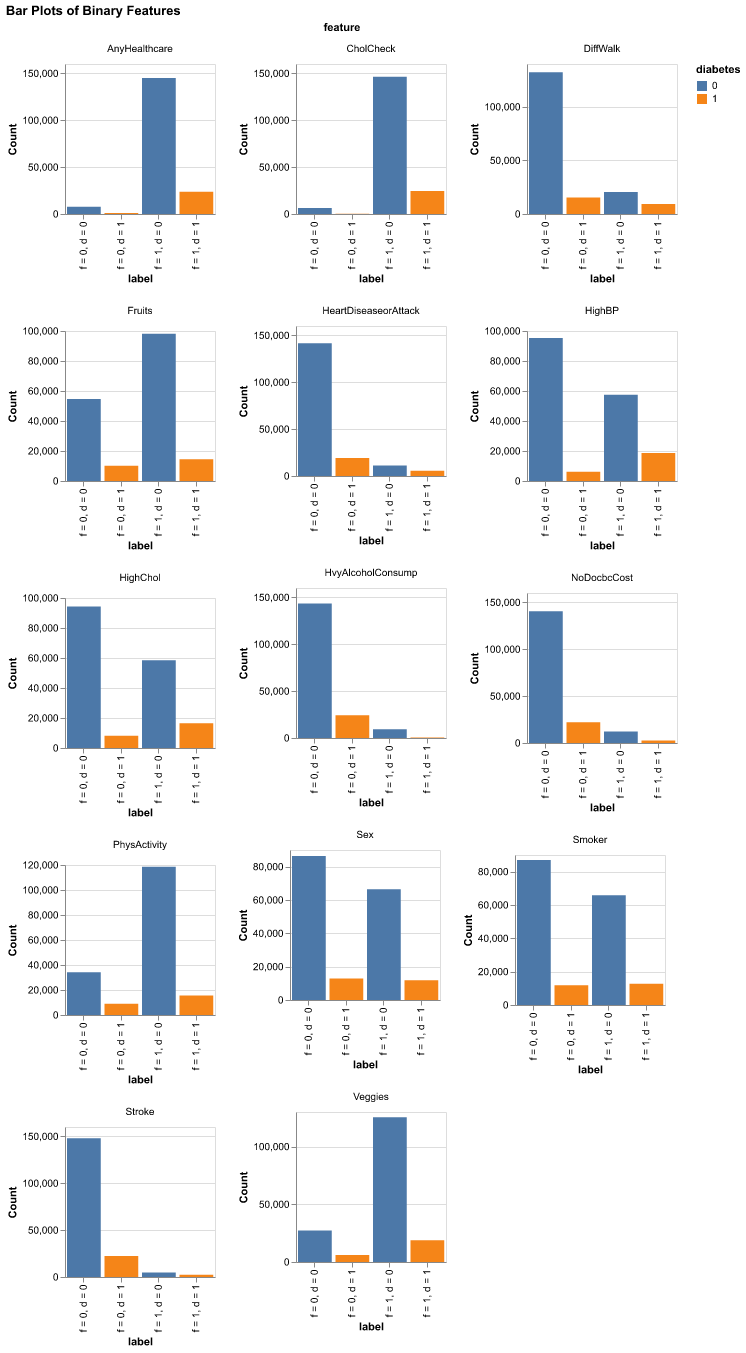
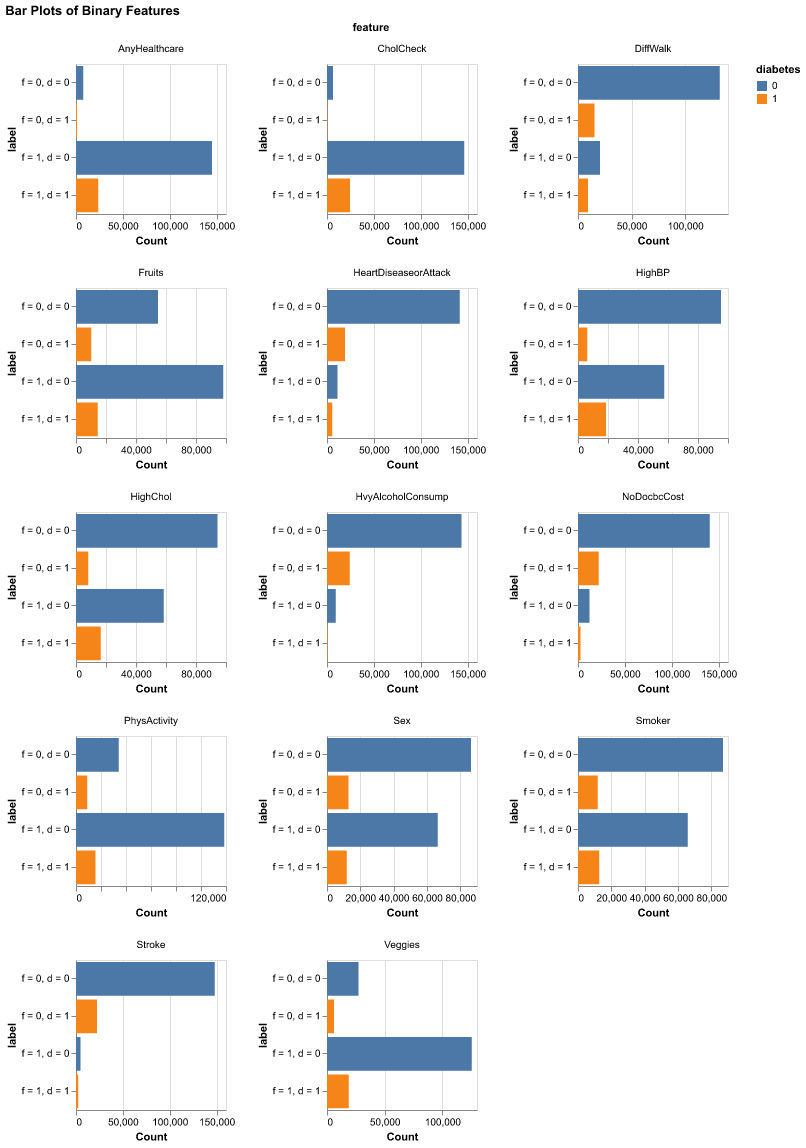
modify plots according to https://github.com/alxwen711/cdc_diabetes_prediction/pull/43#pullrequestreview-3538279190

Changed region(s): [[0.0, 0.0, 0.9249, 1.0], [0.9249, 0.0305, 1.0, 0.0915]]

diff --git a/scripts/04-EDA.py b/scripts/04-EDA.py
@@ -157,8 +157,8 @@ def eda_binary(X_train: pd.DataFrame) -> alt.Chart:
     df_sample_binary = df_long[df_long["feature"].isin(binary_features)]
     df_sample_binary["label"] = df_sample_binary.apply(generate_label, axis = 1)
     chart = alt.Chart(df_sample_binary).mark_bar().encode(
-        x=alt.X("label"), # Chose to use ordinal instead of quantitative because this works better for most features
-        y=alt.Y("count()", title="Count").stack(False),
+        x=alt.Y("count()", title="Count").stack(False),
+        y=alt.X("label"), 
         color=alt.Color("diabetes:N"),
     ).properties(
         width=150,
@@ -236,7 +236,7 @@ def eda_correlation(X_train):
     chart = alt.Chart(correlation_long).mark_rect().encode(
         x='Feature 1:O',
         y='Feature 2:O',
-        color=alt.Color('Correlation:Q', scale=alt.Scale(scheme='viridis')),
+        color=alt.Color('Correlation:Q', scale=alt.Scale(domain = [-1,1], scheme='spectral')),
         tooltip=['Feature 1', 'Feature 2', 'Correlation']
     ).properties(
         width=600,
